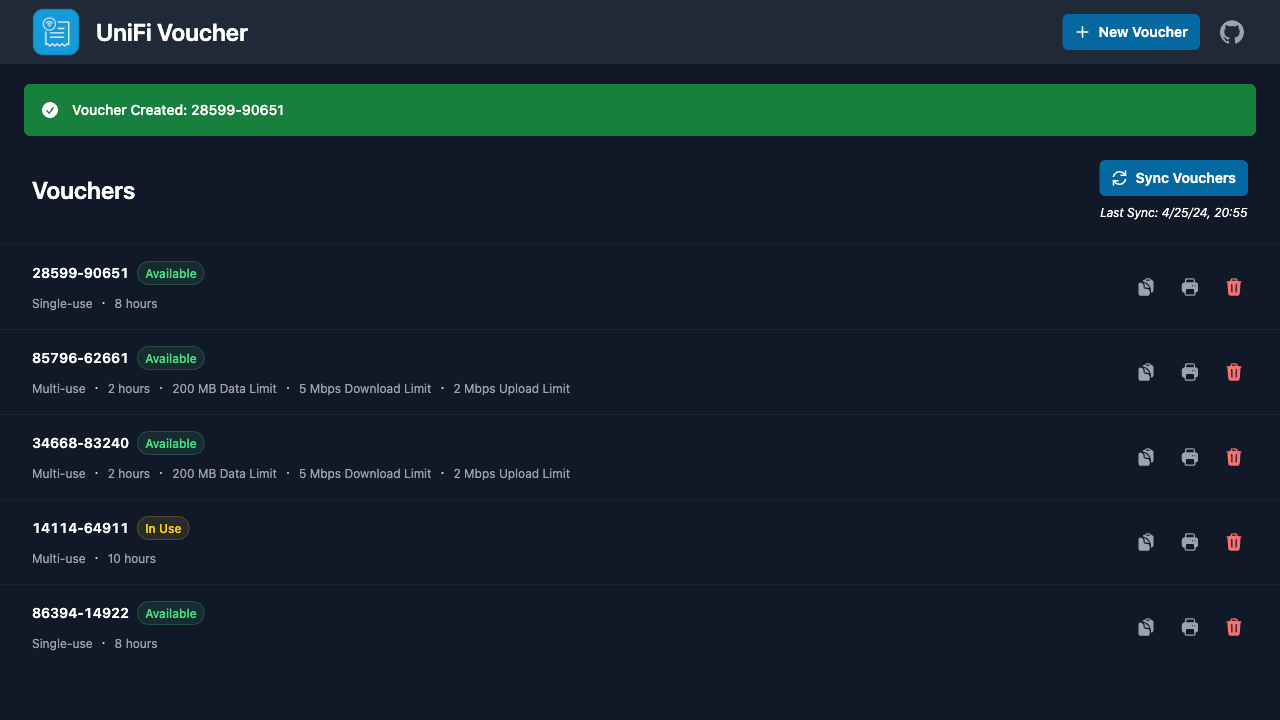
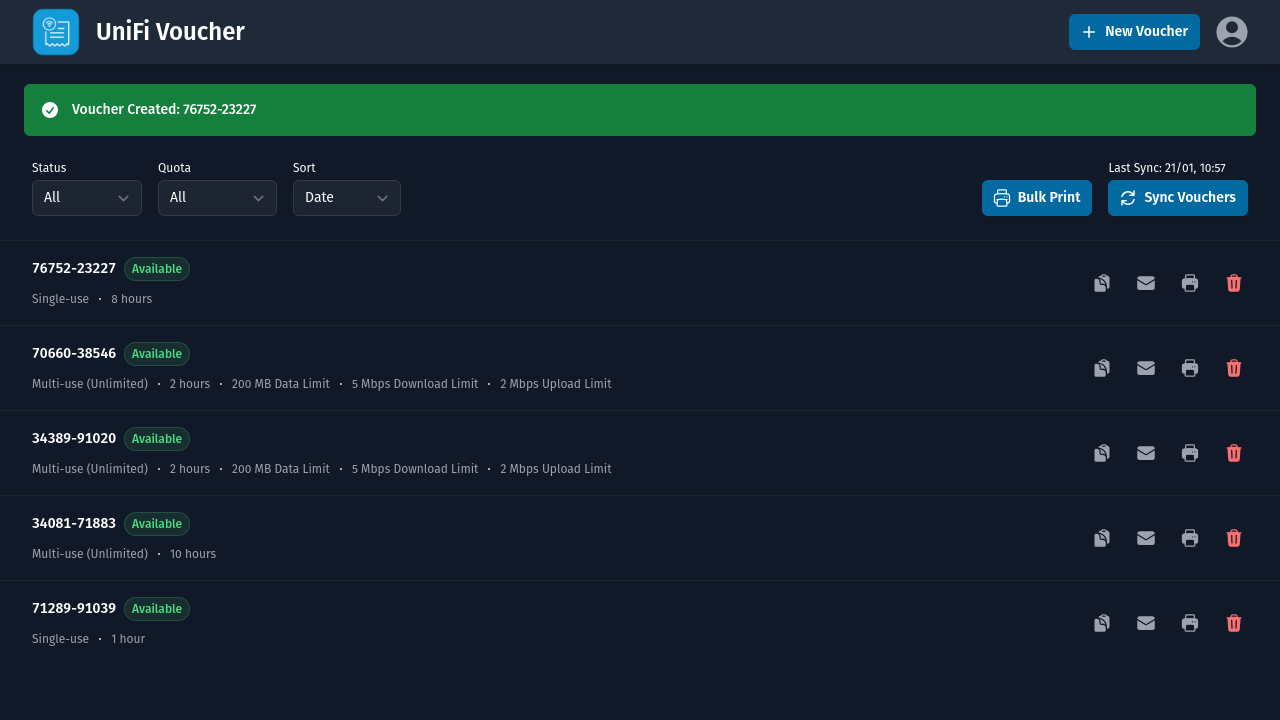
Updated screenshots. Fixed inconsistent 'unlimited' messaging. Implemented direct usage without overrides within unifi.js. Implemented voucher duration type dropdown during custom voucher creation. Implemented Multi-use (Limited/Quota) option during custom voucher creation. Updated README.md to refl

diff --git a/server.js b/server.js
@@ -203,7 +203,7 @@ if(variables.serviceWeb) {
         }
 
         // Create voucher code
-        const voucherCode = await unifi.create(types(req.body['voucher-type'] === 'custom' ? `${req.body['voucher-duration']},${req.body['voucher-usage']},${req.body['voucher-upload-limit']},${req.body['voucher-download-limit']},${req.body['voucher-data-limit']};` : req.body['voucher-type'], true), parseInt(req.body['voucher-amount']), req.body['voucher-note'] !== '' ? req.body['voucher-note'] : null).catch((e) => {
+        const voucherCode = await unifi.create(types(req.body['voucher-type'] === 'custom' ? `${req.body['voucher-duration-type'] === 'day' ? (parseInt(req.body['voucher-duration']) * 24 * 60) : req.body['voucher-duration-type'] === 'hour' ? (parseInt(req.body['voucher-duration']) * 60) : parseInt(req.body['voucher-duration'])},${req.body['voucher-usage'] === '-1' ? req.body['voucher-quota'] : req.body['voucher-usage']},${req.body['voucher-upload-limit']},${req.body['voucher-download-limit']},${req.body['voucher-data-limit']};` : req.body['voucher-type'], true), parseInt(req.body['voucher-amount']), req.body['voucher-note'] !== '' ? req.body['voucher-note'] : null).catch((e) => {
             res.cookie('flashMessage', JSON.stringify({type: 'error', message: e}), {httpOnly: true, expires: new Date(Date.now() + 24 * 60 * 60 * 1000)}).redirect(302, `${req.headers['x-ingress-path'] ? req.headers['x-ingress-path'] : ''}/vouchers`);
         });
 

diff --git a/modules/info.js b/modules/info.js
@@ -69,7 +69,7 @@ module.exports = () => {
      */
     log.info('[Voucher] Loaded the following types:');
     types(variables.voucherTypes).forEach((type, key) => {
-        log.info(`[Voucher][Type][${key}] ${time(type.expiration)}, ${type.usage === '1' ? 'single-use' : 'multi-use'}${typeof type.upload === "undefined" && typeof type.download === "undefined" && typeof type.megabytes === "undefined" ? ', no limits' : `${typeof type.upload !== "undefined" ? `, upload bandwidth limit: ${type.upload} kb/s` : ''}${typeof type.download !== "undefined" ? `, download bandwidth limit: ${type.download} kb/s` : ''}${typeof type.megabytes !== "undefined" ? `, quota limit: ${type.megabytes} mb` : ''}`}`);
+        log.info(`[Voucher][Type][${key}] ${time(type.expiration)}, ${type.usage === '1' ? 'single-use' : type.usage === '0' ? 'multi-use (unlimited)' : `multi-use (${type.usage}x)`}${typeof type.upload === "undefined" && typeof type.download === "undefined" && typeof type.megabytes === "undefined" ? ', no limits' : `${typeof type.upload !== "undefined" ? `, upload bandwidth limit: ${type.upload} kb/s` : ''}${typeof type.download !== "undefined" ? `, download bandwidth limit: ${type.download} kb/s` : ''}${typeof type.megabytes !== "undefined" ? `, quota limit: ${type.megabytes} mb` : ''}`}`);
     });
     log.info(`[Voucher][Custom] ${variables.voucherCustom ? 'Enabled!' : 'Disabled!'}`);
 

diff --git a/modules/unifi.js b/modules/unifi.js
@@ -83,7 +83,7 @@ const unifiModule = {
     create: (type, amount = 1, note = null, retry = true) => {
         return new Promise((resolve, reject) => {
             startSession().then(() => {
-                controller.createVouchers(type.expiration, amount, parseInt(type.usage) === 1 ? 1 : 0, note, typeof type.upload !== "undefined" ? type.upload : null, typeof type.download !== "undefined" ? type.download : null, typeof type.megabytes !== "undefined" ? type.megabytes : null).then((voucher_data) => {
+                controller.createVouchers(type.expiration, amount, parseInt(type.usage), note, typeof type.upload !== "undefined" ? type.upload : null, typeof type.download !== "undefined" ? type.download : null, typeof type.megabytes !== "undefined" ? type.megabytes : null).then((voucher_data) => {
                     if(amount > 1) {
                         log.info(`[UniFi] Created ${amount} vouchers`);
                         resolve(true);

diff --git a/README.md b/README.md
@@ -98,7 +98,7 @@ services:
       AUTH_OIDC_CLIENT_SECRET: ''
       # Disables the login/authentication for the portal and API
       AUTH_DISABLE: 'false'
-      # Voucher Types, format: expiration in minutes (required),single-use or multi-use vouchers value - '0' is for multi-use - '1' is for single-use (optional),upload speed limit in kbps (optional),download speed limit in kbps (optional),data transfer limit in MB (optional)
+      # Voucher Types, format: expiration in minutes (required),single-use or multi-use vouchers value - '0' is for multi-use (unlimited) - '1' is for single-use - 'N' is for multi-use (Nx) (optional),upload speed limit in kbps (optional),download speed limit in kbps (optional),data transfer limit in MB (optional)
       # To skip a parameter just but nothing in between the comma's
       # After a voucher type add a semicolon, after the semicolon you can start a new voucher type
       VOUCHER_TYPES: '480,1,,,;'
